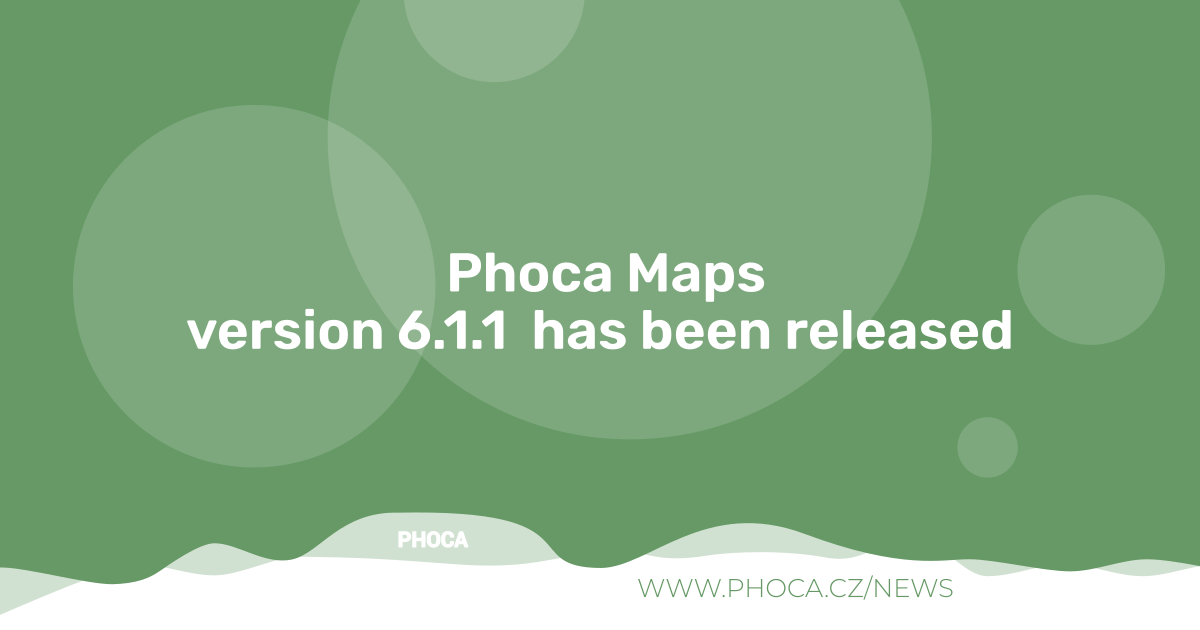
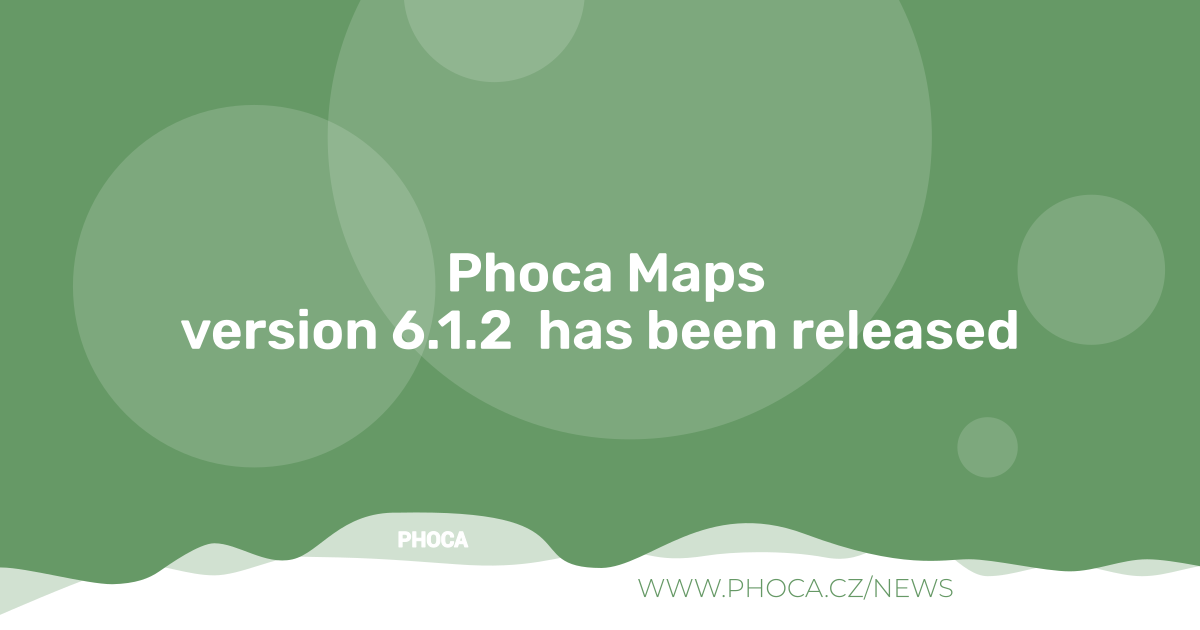
6.1.2

Changed region(s): [[0.1542, 0.4825, 0.8633, 0.573]]

diff --git a/admin/helpers/phocamapsmap.php b/admin/helpers/phocamapsmap.php
@@ -1246,10 +1246,18 @@ class PhocaMapsMap
 
 	   $onclick   = 'window.open(this.href + \'' . $amp . 'from=\' + encodeURIComponent(from64' . $id . ') + \'&amp;to=\' + encodeURIComponent(to64' . $id . '), \'phocaMapRoute\', \'' . $status . '\'); return false;';
 
-	   $output    = '<div class="pmprintroutelink">'
+	   /*$output    = '<div class="pmprintroutelink">'
 	   . '<a href=\\u0022' . htmlspecialchars($link, ENT_QUOTES, 'UTF-8') . '\\u0022 rel=\\u0022nofollow\\u0022 onclick=\\u0022' . $onclick . '\\u0022 >' . Text::_('COM_PHOCAMAPS_PRINT_ROUTE', true, true, false) . '</a>'
 	   . '</div>'
-	   . '<div style="clear:both"></div>';
+	   . '<div style="clear:both"></div>';*/
+
+	   // Escape single quotes inside the JS logic so they don't break the outer string literal
+		$safe_onclick = str_replace("'", "\\u0027", $onclick);
+
+		$output    = '<div class="pmprintroutelink">'
+		. '<a href=\\u0022' . htmlspecialchars($link, ENT_QUOTES, 'UTF-8') . '\\u0022 rel=\\u0022nofollow\\u0022 onclick=\\u0022' . $safe_onclick . '\\u0022 >' . Text::_('COM_PHOCAMAPS_PRINT_ROUTE', true, true, false) . '</a>'
+		. '</div>'
+		. '<div style="clear:both"></div>';
 
 	   return $output;
 

diff --git a/README.MD b/README.MD
@@ -72,7 +72,7 @@ If you need additional information beyond this GitHub repository, further docume
 ### Version (Joomla! 5.x - no longer supported)
 5.1.0
 ### Version (Joomla! 6.x)
-6.1.1
+6.1.2
 
 ### License
 
